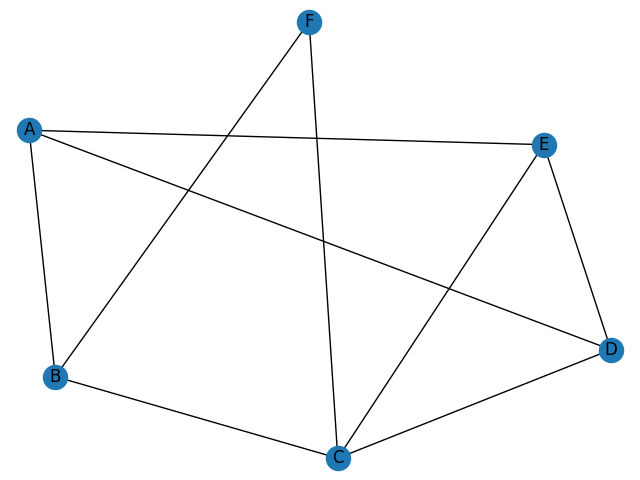
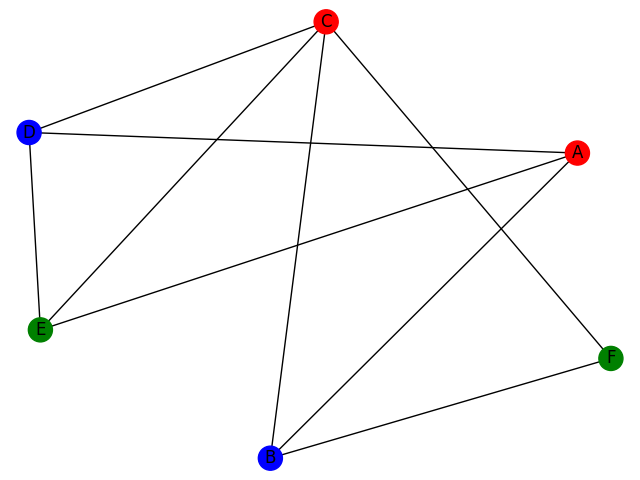
final with png's

diff --git a/util.py b/util.py
@@ -17,10 +17,27 @@ class Edge:
         self.flow = int(flow) if type(flow) == int else None
         self.capacity = int(capacity) if capacity else None
 
+def get_color_map(graph):
+
+    colors = {
+        1 : 'red',
+        2 : 'blue',
+        3 : 'green',
+        4 : 'yellow',
+        5 : 'orange',
+    }
+
+    color_map = []
+    for node in graph.nodes():
+        color_map.append(colors[graph.nodes[node]['color']])
+        print(colors[graph.nodes[node]['color']])
+    return color_map
+
 
 def draw_graph_with_labels(graph, simple=False, save=False,path=None, flow_network=False):
     if simple and save and path:
-        nx.draw(graph, with_labels=True)
+        color_map = get_color_map(graph)
+        nx.draw(graph, node_color=color_map, with_labels=True)
         file_name = path.split('/')[len(path.split('/'))-1].replace('.txt','.png')
         plt.savefig(f'img/{file_name}')
         plt.clf()
